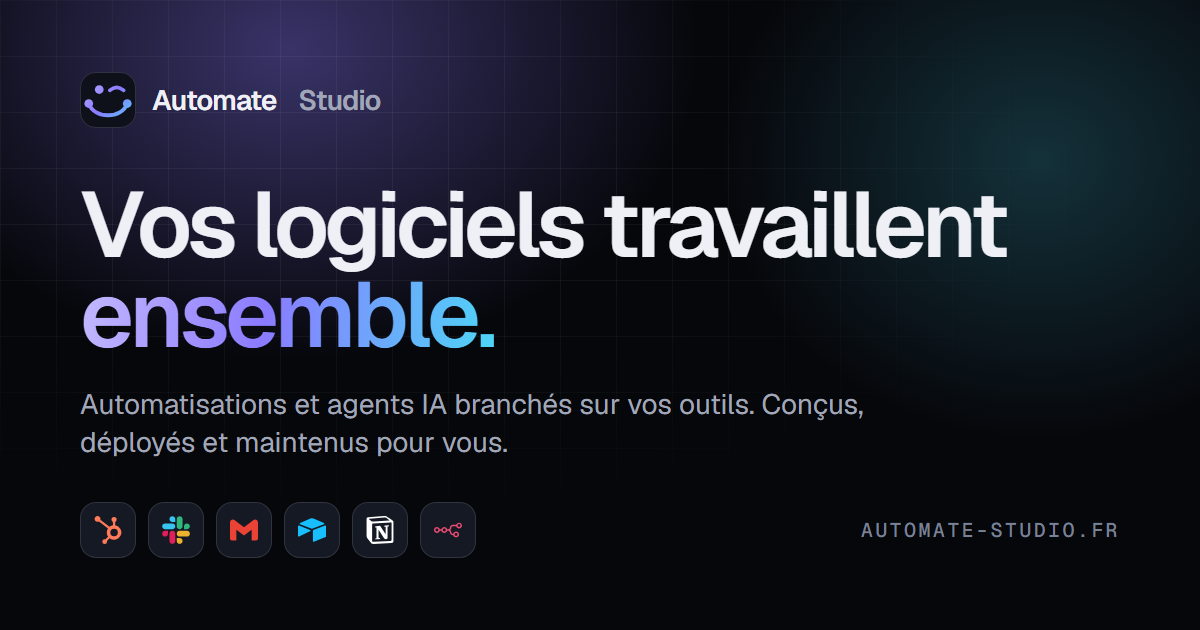
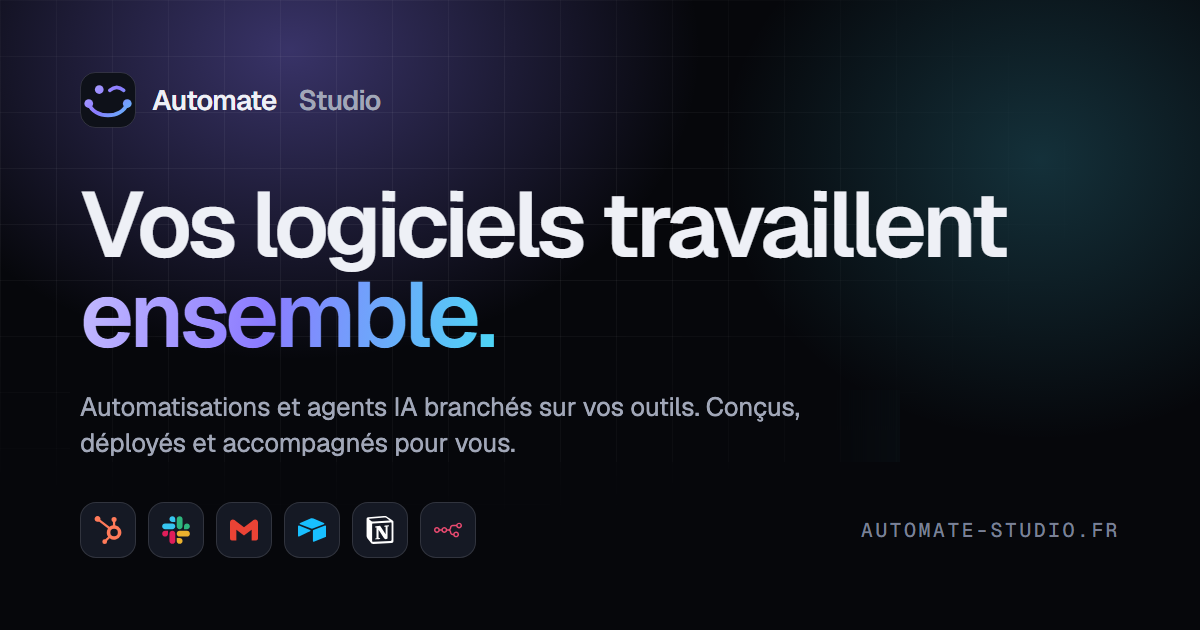
fix(seo): remplace « maintenus » par « accompagnés » dans l'image de partage

Changed region(s): [[0.0617, 0.6333, 0.74, 0.6635], [0.0617, 0.6937, 0.4317, 0.7238]]

diff --git a/MEMORY.md b/MEMORY.md
@@ -57,7 +57,7 @@ Format des entrées : `[YYYY-MM-DD] Catégorie — Fait / Décision`
 - [2026-06-19] Analytics — Non configuré.
 - [2026-10-06] SEO — meta, OG, JSON-LD, robots.txt et sitemap.xml présents.
 - [2026-09-30] Refonte identité tech terminée (build OK, LCP local ≈ 0,8 s desktop).
-- [2026-10-06] Refonte fusionnée dans main (ancien design ivoire/brun supprimé, FinalCTA retiré) ; correctifs contact/SEO de main conservés ; branche redesign/identite-tech obsolète.
+- [2026-10-06] Refonte fusionnée dans main (ancien design ivoire/brun supprimé, FinalCTA retiré) ; correctifs contact/SEO de main conservés ; branche redesign/identite-tech supprimée (locale et distante).
 - [2026-10-06] Titre « Fondateur » remplacé par « Consultant Automatisations & IA » (StudioSection).
 - [2026-10-06] Nettoyage : classes CSS field-select/mask-fade-x, couleur warning, public/keprea.png, vite.config.js/.d.ts (générés, ignorés par git) supprimés.
 
@@ -71,7 +71,7 @@ Format des entrées : `[YYYY-MM-DD] Catégorie — Fait / Décision`
 - [ ] Ajouter des témoignages clients quand disponibles
 - [ ] Ajouter d'autres missions livrées dans data/cases.ts quand disponibles
 - [x] Politique de confidentialité complétée (durée de conservation, localisation des données)
-- [ ] Régénérer public/og-image.png : son texte dit encore « Conçus, déployés et maintenus pour vous » (non modifié le 2026-10-01, consigne de ne pas toucher à l'image)
+- [x] public/og-image.png : sous-titre remplacé par « Conçus, déployés et accompagnés pour vous. » (2026-10-06)
 - [x] Domaine et hébergement (automate-studio.fr sur Vercel)
 - [x] public/keprea.png supprimé (inutilisé)
 
